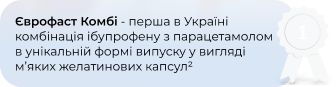
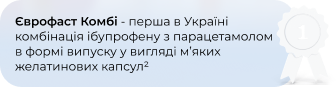
Корректировка hero-текста и ссылки

diff --git a/index.html b/index.html
@@ -61,8 +61,7 @@
                         <img src="./images/hero_bg.png" alt="" class="hero-photo">
                         <img src="./images/hero_text.png" alt="" class="hero-photo-text">
                         <div class="hero-text-box">
-                            <p class="hero-title-text"><span class="hero-title-text_span">Єврофаст Комбі</span> - перша в Україні комбінація ібупрофену з парацетамолом в унікальній формі випуску у вигляді м’яких
-                            желатинових капсул<sup class="hero-title-text_index">2</sup></p>
+                            <p class="hero-title-text"><span class="hero-title-text_span">Єврофаст Комбі</span> - перша в Україні комбінація ібупрофену з парацетамолом в формі випуску у вигляді м’яких желатинових капсул<sup class="hero-title-text_index">2</sup></p>
                             <img src="./images/hero_medal.png" alt="" class="hero-medal">
                         </div>
                     </div>
@@ -81,8 +80,8 @@
                             <p class="hero-footnote-first"><sup>1</sup>Мається на увазі, що Єврофаст Комбі особливо придатний для лікування
                                 болю, що вимагає сильнішої знеболювальної дії, ніж
                                 дія ібупрофену або парацетамолу, застосованих окремо.</p>
-                            <p class="hero-footnote-second"><sup>2</sup>Згідно реєстраційних даних з державного реєстру лікарських засобів
-                                України http://drlz.com.ua/</p>
+                            <p class="hero-footnote-second"><sup>2</sup>Мається на увазі, що станом на 04.02.2022 р. за даними державного реєстру лікарських засобів України (http://drlz.com.ua/) відсутні інші зареєстровані лікарські засоби,
+                            що одночасно містять комбінацію діючих речовин – ібупрофен і парацетамол і при цьому мають форму випуску - м’які желатинові капсули.</p>
                         </div>
                     </div>
                     
